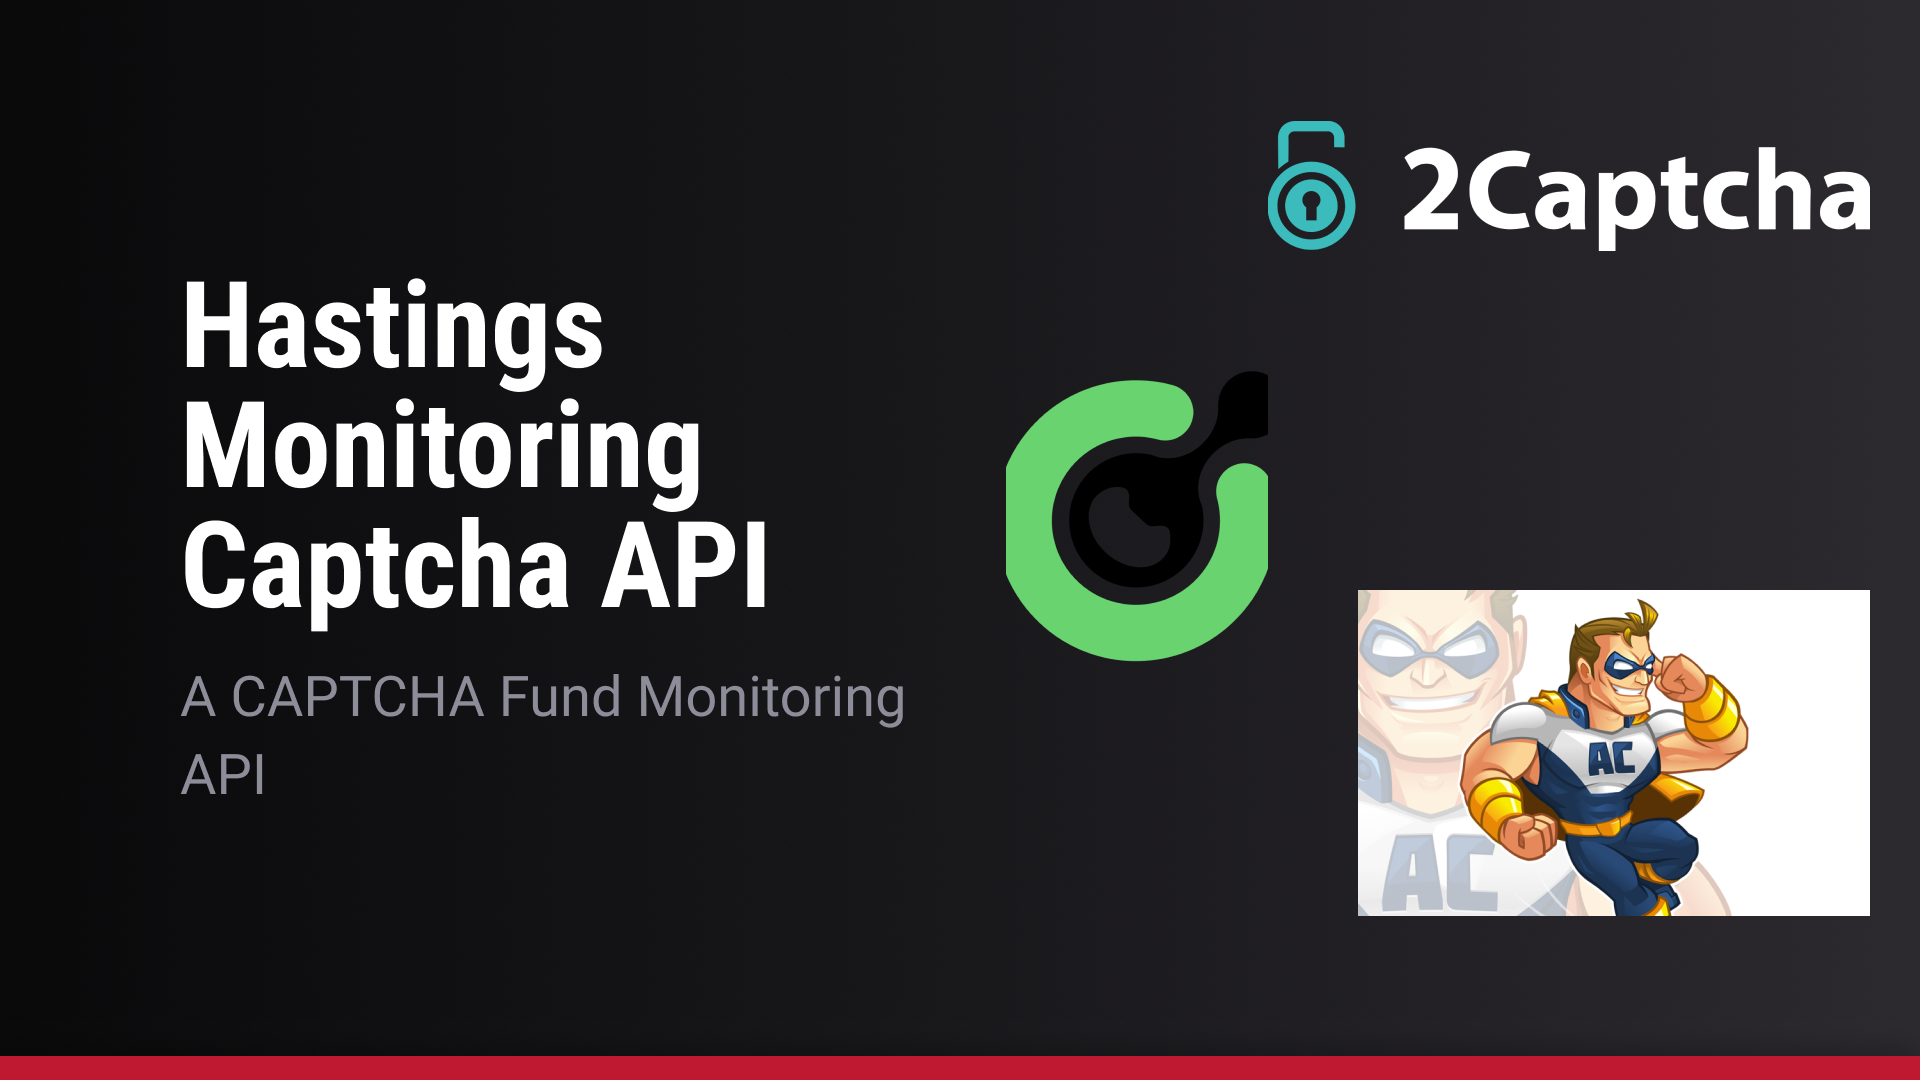
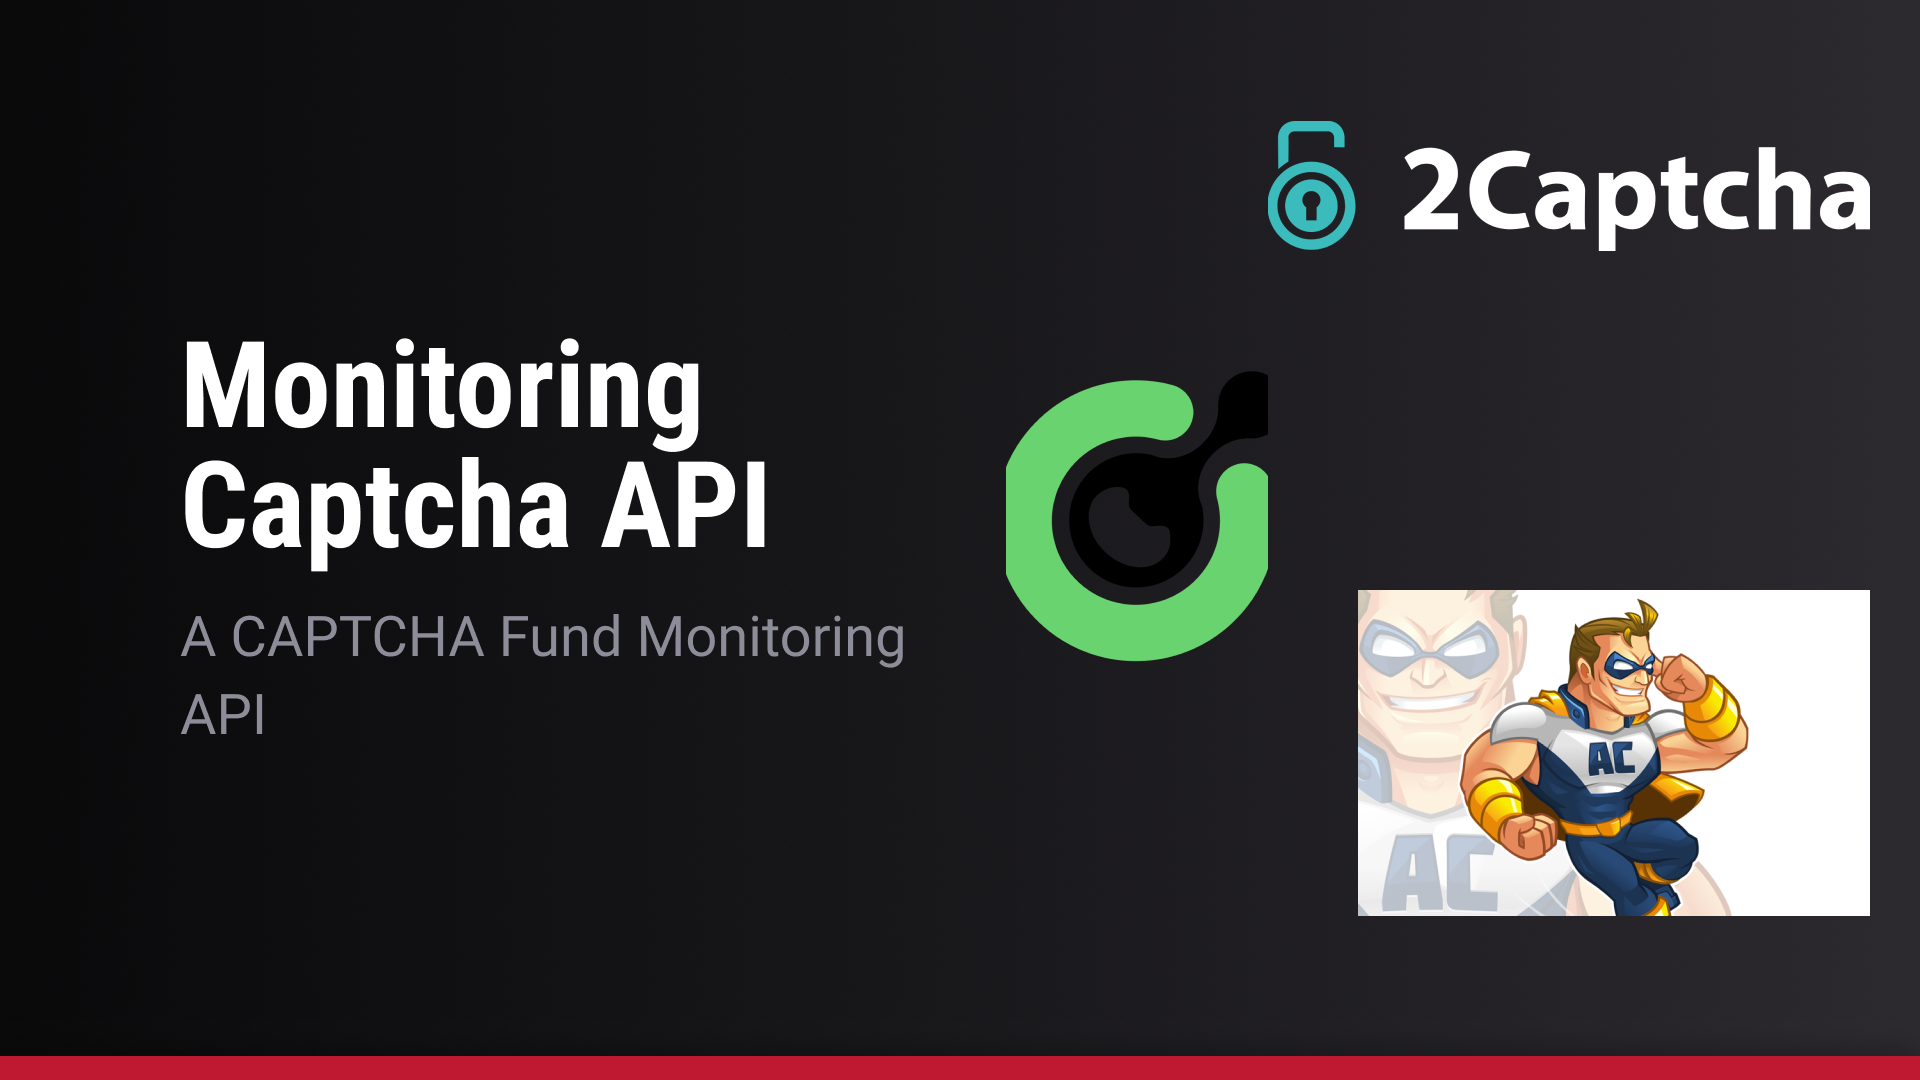
remove all about company

Changed region(s): [[0.0938, 0.2444, 0.4688, 0.7333]]

diff --git a/settings.py b/settings.py
@@ -1,13 +1,13 @@
-# from dotenv import dotenv_values
+from dotenv import dotenv_values
 
-# config = dotenv_values(".env.local")
+config = dotenv_values(".env.prod")
 
-# API_KEY_ANTI_CAPTCHA = config.get('API_KEY_ANTI_CAPTCHA', '')
-# API_KEY_CAP_SOLVER = config.get('API_KEY_CAP_SOLVER', '')
-# API_KEY_TWO_CAPCHA = config.get('API_KEY_TWO_CAPCHA', '')
+API_KEY_ANTI_CAPTCHA = config.get('API_KEY_ANTI_CAPTCHA', '')
+API_KEY_CAP_SOLVER = config.get('API_KEY_CAP_SOLVER', '')
+API_KEY_TWO_CAPCHA = config.get('API_KEY_TWO_CAPCHA', '')
 
-import os
+# import os
 
-API_KEY_ANTI_CAPTCHA = os.environ.get('API_KEY_ANTI_CAPTCHA', '')
-API_KEY_CAP_SOLVER = os.environ.get('API_KEY_CAP_SOLVER', '')
-API_KEY_TWO_CAPCHA = os.environ.get('API_KEY_TWO_CAPCHA', '')
+# API_KEY_ANTI_CAPTCHA = os.environ.get('API_KEY_ANTI_CAPTCHA', '')
+# API_KEY_CAP_SOLVER = os.environ.get('API_KEY_CAP_SOLVER', '')
+# API_KEY_TWO_CAPCHA = os.environ.get('API_KEY_TWO_CAPCHA', '')

diff --git a/app.py b/app.py
@@ -8,5 +8,5 @@ app = Flask(__name__)
 app.register_blueprint(home)
 app.register_blueprint(captcha)
 
-# if __name__ == '__main__':
-#     app.run(debug=True, host='0.0.0.0')
+if __name__ == '__main__':
+    app.run(debug=True, host='0.0.0.0')

diff --git a/README.md b/README.md
@@ -1,4 +1,4 @@
-# Hastings Monitoring Captcha API's
+# Monitoring Captcha API's
 
 ![Banner Project](.github/banner.png)
 
@@ -119,13 +119,13 @@ To run the application with Docker, use the commands:/
 1. Create a image
 
 ```shell
-docker build -t hastings-monitoring-captcha-api .
+docker build -t monitoring-captcha-api .
 ```
 
 2. Run Image
 
 ```shell
-docker run -d -p 5000:5000 hastings-monitoring-captcha-api
+docker run -d -p 5000:5000 monitoring-captcha-api
 ```
 
 Access `http://localhost:5000`.
